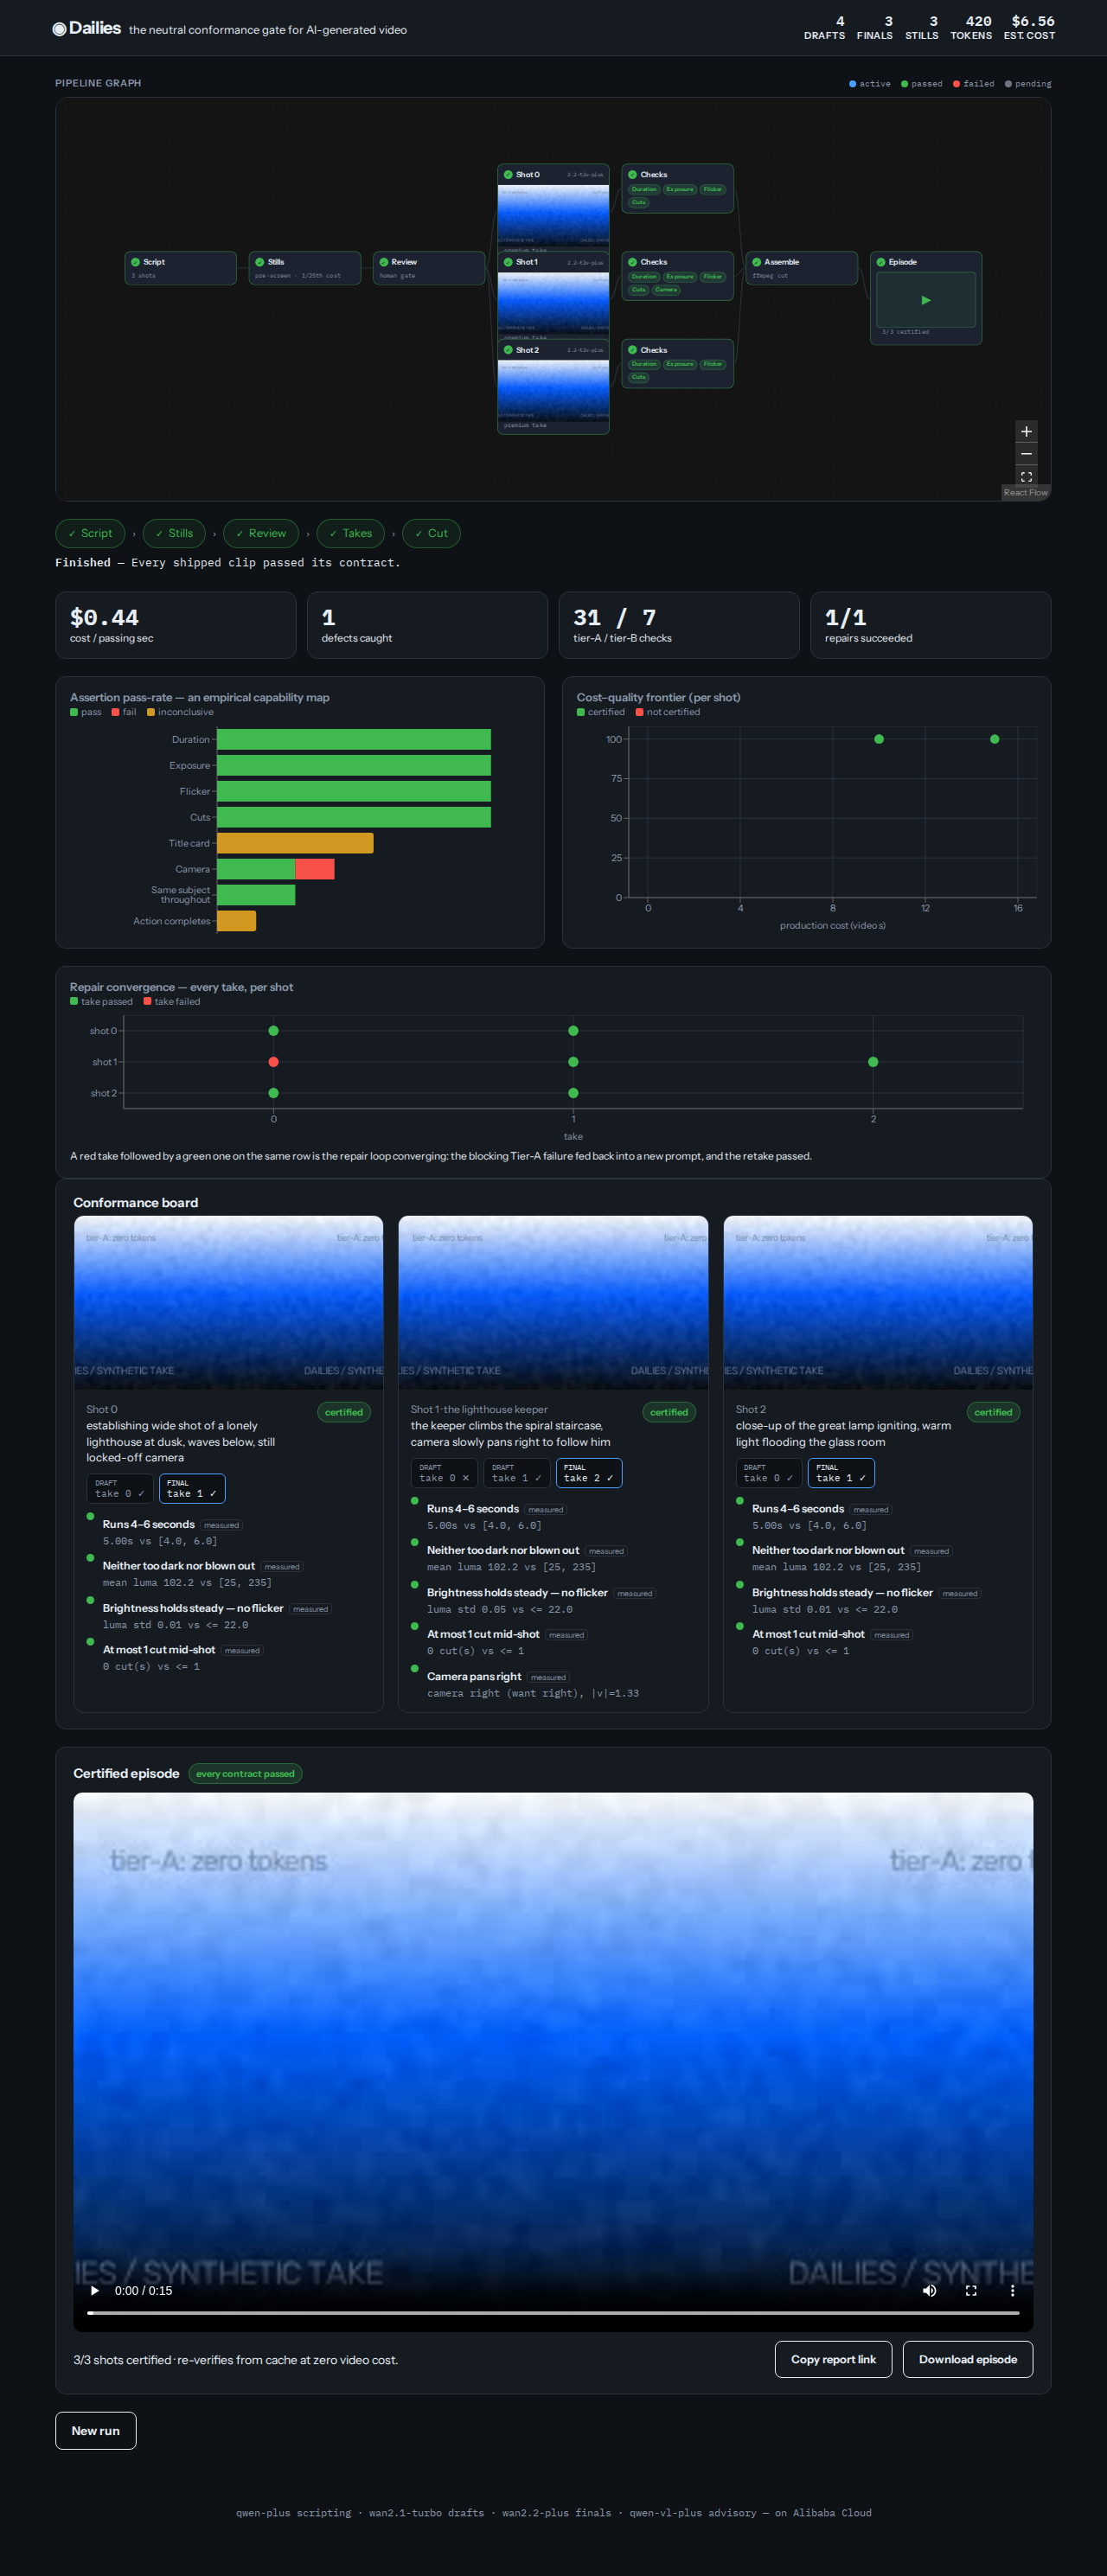
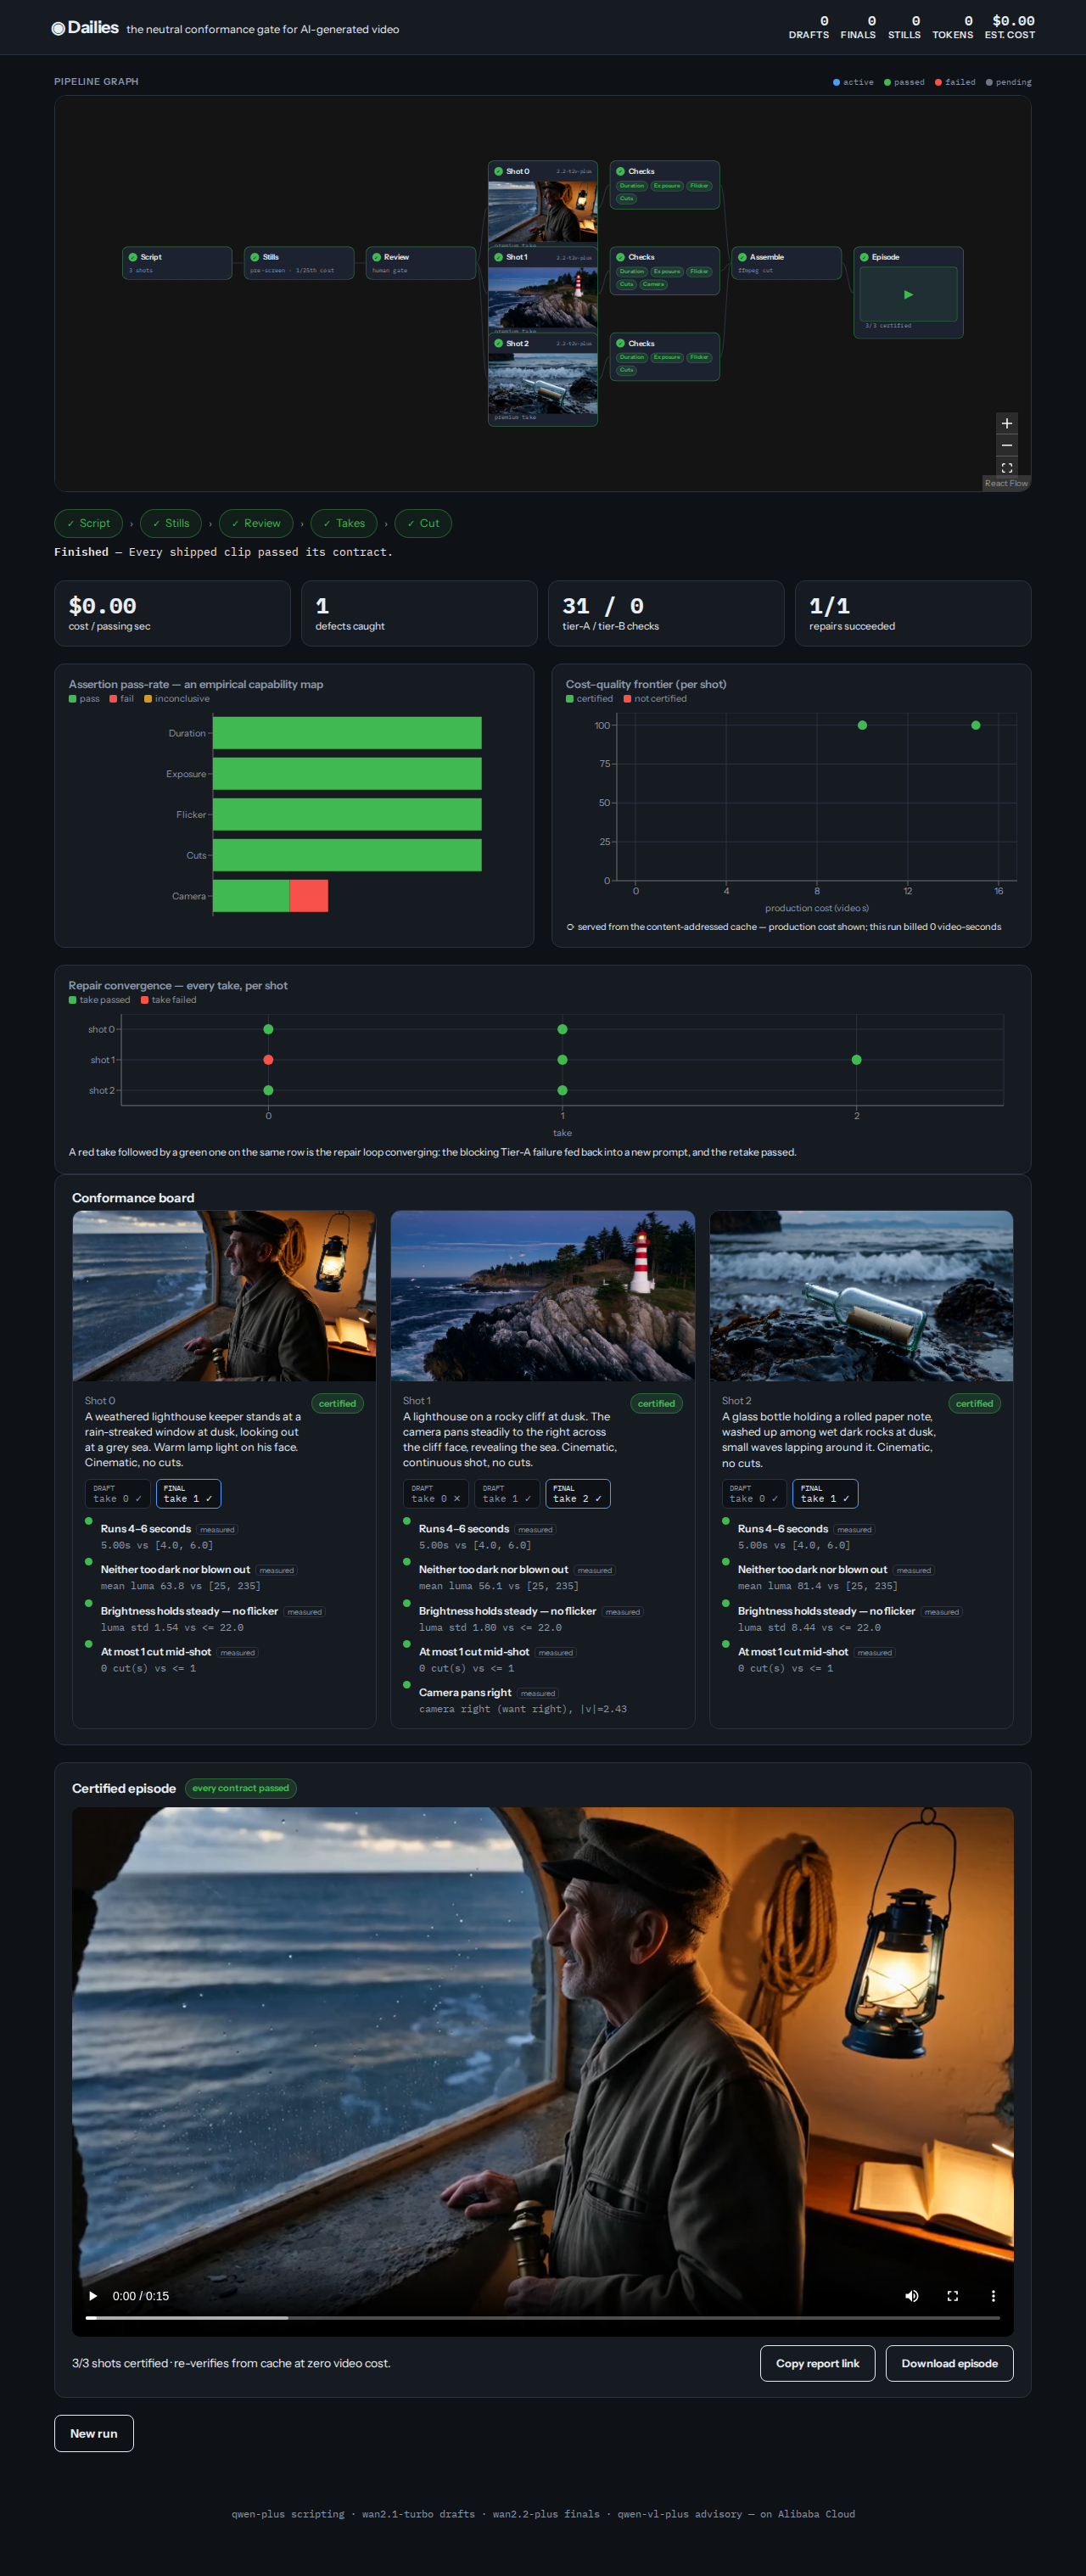
docs(readme): real-footage screenshots from warmed fixtures
dailies-review/done.png now show actual Wan clips + real qwen-tts narration (regenerated via npm run shots:fixtures over the warm fixtures cache), replacing the synthetic slates — the certified episode carries a real voice and the run billed 0 video-seconds. Scroll-to-top before each capture so the sticky header composites at the top of the full-page shot.

Claude-Session: https://claude.ai/code/session_01PQsZFX1ktCPqU9HJcw4JvT

diff --git a/web/e2e-fixtures/shots.spec.ts b/web/e2e-fixtures/shots.spec.ts
@@ -27,6 +27,9 @@ test("real-footage screenshots: review gate + certified episode", async ({ page 
     const el = document.querySelector('[data-testid="shot"] img') as HTMLImageElement | null;
     return !!el && el.naturalWidth > 0;
   });
+  // Reset scroll so the sticky AppBar composites at the top of the full-page capture.
+  await page.evaluate(() => window.scrollTo(0, 0));
+  await page.waitForTimeout(200);
   await page.screenshot({ path: "../dailies-review.png", fullPage: true });
 
   // Approve → draft → Tier-A catches the real static kill-shot → repaired pan → certified cut.
@@ -47,5 +50,7 @@ test("real-footage screenshots: review gate + certified episode", async ({ page 
     return v !== null && !v.seeking && v.readyState >= 2;
   });
   await page.waitForTimeout(1000);
+  await page.evaluate(() => window.scrollTo(0, 0));
+  await page.waitForTimeout(200);
   await page.screenshot({ path: "../dailies-done.png", fullPage: true });
 });